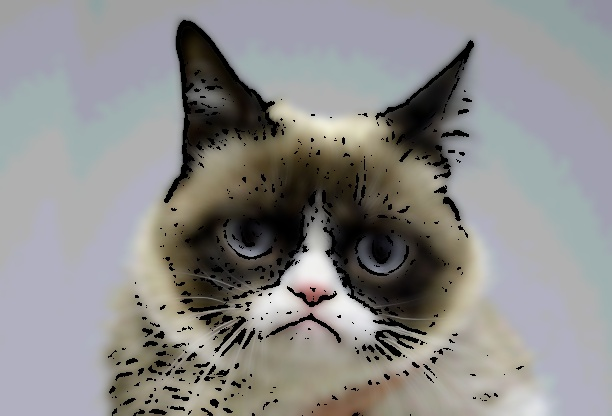
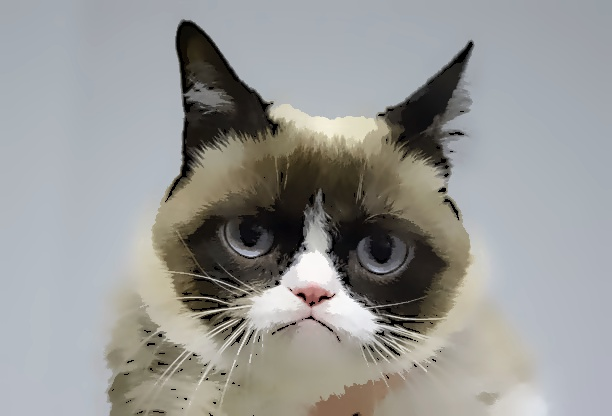
Update README.md

diff --git a/LICENSE.md b/LICENSE.md
@@ -1,0 +1,288 @@
+# European Union Public License v. 1.2
+
+> EUPL © the European Union 2007, 2016
+
+This European Union Public Licence (the ‘EUPL’) applies to the Work (as defined
+below) which is provided under the terms of this Licence. Any use of the Work,
+other than as authorised under this Licence is prohibited (to the extent such
+use is covered by a right of the copyright holder of the Work).
+
+The Work is provided under the terms of this Licence when the Licensor (as
+defined below) has placed the following notice immediately following the
+copyright notice for the Work:
+
+> Licensed under the EUPL
+
+or has expressed by any other means his willingness to license under the EUPL.
+
+## 1. Definitions
+
+In this Licence, the following terms have the following meaning:
+
+- ‘The Licence’: this Licence.
+
+- ‘The Original Work’: the work or software distributed or communicated by the
+  Licensor under this Licence, available as Source Code and also as Executable
+  Code as the case may be.
+
+- ‘Derivative Works’: the works or software that could be created by the
+  Licensee, based upon the Original Work or modifications thereof. This Licence
+  does not define the extent of modification or dependence on the Original Work
+  required in order to classify a work as a Derivative Work; this extent is
+  determined by copyright law applicable in the country mentioned in Article 15.
+
+- ‘The Work’: the Original Work or its Derivative Works.
+
+- ‘The Source Code’: the human-readable form of the Work which is the most
+  convenient for people to study and modify.
+
+- ‘The Executable Code’: any code which has generally been compiled and which is
+  meant to be interpreted by a computer as a program.
+
+- ‘The Licensor’: the natural or legal person that distributes or communicates
+  the Work under the Licence.
+
+- ‘Contributor(s)’: any natural or legal person who modifies the Work under the
+  Licence, or otherwise contributes to the creation of a Derivative Work.
+
+- ‘The Licensee’ or ‘You’: any natural or legal person who makes any usage of
+  the Work under the terms of the Licence.
+
+- ‘Distribution’ or ‘Communication’: any act of selling, giving, lending,
+  renting, distributing, communicating, transmitting, or otherwise making
+  available, online or offline, copies of the Work or providing access to its
+  essential functionalities at the disposal of any other natural or legal
+  person.
+
+## 2. Scope of the rights granted by the Licence
+
+The Licensor hereby grants You a worldwide, royalty-free, non-exclusive,
+sublicensable licence to do the following, for the duration of copyright vested
+in the Original Work:
+
+- use the Work in any circumstance and for all usage,
+- reproduce the Work,
+- modify the Work, and make Derivative Works based upon the Work,
+- communicate to the public, including the right to make available or display
+  the Work or copies thereof to the public and perform publicly, as the case may
+  be, the Work,
+- distribute the Work or copies thereof,
+- lend and rent the Work or copies thereof,
+- sublicense rights in the Work or copies thereof.
+
+Those rights can be exercised on any media, supports and formats, whether now
+known or later invented, as far as the applicable law permits so.
+
+In the countries where moral rights apply, the Licensor waives his right to
+exercise his moral right to the extent allowed by law in order to make effective
+the licence of the economic rights here above listed.
+
+The Licensor grants to the Licensee royalty-free, non-exclusive usage rights to
+any patents held by the Licensor, to the extent necessary to make use of the
+rights granted on the Work under this Licence.
+
+## 3. Communication of the Source Code
+
+The Licensor may provide the Work either in its Source Code form, or as
+Executable Code. If the Work is provided as Executable Code, the Licensor
+provides in addition a machine-readable copy of the Source Code of the Work
+along with each copy of the Work that the Licensor distributes or indicates, in
+a notice following the copyright notice attached to the Work, a repository where
+the Source Code is easily and freely accessible for as long as the Licensor
+continues to distribute or communicate the Work.
+
+## 4. Limitations on copyright
+
+Nothing in this Licence is intended to deprive the Licensee of the benefits from
+any exception or limitation to the exclusive rights of the rights owners in the
+Work, of the exhaustion of those rights or of other applicable limitations
+thereto.
+
+## 5. Obligations of the Licensee
+
+The grant of the rights mentioned above is subject to some restrictions and
+obligations imposed on the Licensee. Those obligations are the following:
+
+**Attribution right:** The Licensee shall keep intact all copyright, patent or
+trademarks notices and all notices that refer to the Licence and to the
+disclaimer of warranties. The Licensee must include a copy of such notices and a
+copy of the Licence with every copy of the Work he/she distributes or
+communicates. The Licensee must cause any Derivative Work to carry prominent
+notices stating that the Work has been modified and the date of modification.
+
+**Copyleft clause:** If the Licensee distributes or communicates copies of the
+Original Works or Derivative Works, this Distribution or Communication will be
+done under the terms of this Licence or of a later version of this Licence
+unless the Original Work is expressly distributed only under this version of the
+Licence — for example by communicating ‘EUPL v. 1.2 only’. The Licensee
+(becoming Licensor) cannot offer or impose any additional terms or conditions on
+the Work or Derivative Work that alter or restrict the terms of the Licence.
+
+**Compatibility clause:** If the Licensee Distributes or Communicates Derivative
+Works or copies thereof based upon both the Work and another work licensed under
+a Compatible Licence, this Distribution or Communication can be done under the
+terms of this Compatible Licence. For the sake of this clause, ‘Compatible
+Licence’ refers to the licences listed in the appendix attached to this Licence.
+Should the Licensee's obligations under the Compatible Licence conflict with
+his/her obligations under this Licence, the obligations of the Compatible
+Licence shall prevail.
+
+**Provision of Source Code:** When distributing or communicating copies of the Work,
+the Licensee will provide a machine-readable copy of the Source Code or indicate
+a repository where this Source will be easily and freely available for as long
+as the Licensee continues to distribute or communicate the Work.
+
+**Legal Protection:** This Licence does not grant permission to use the trade names,
+trademarks, service marks, or names of the Licensor, except as required for
+reasonable and customary use in describing the origin of the Work and
+reproducing the content of the copyright notice.
+
+## 6. Chain of Authorship
+
+The original Licensor warrants that the copyright in the Original Work granted
+hereunder is owned by him/her or licensed to him/her and that he/she has the
+power and authority to grant the Licence.
+
+Each Contributor warrants that the copyright in the modifications he/she brings
+to the Work are owned by him/her or licensed to him/her and that he/she has the
+power and authority to grant the Licence.
+
+Each time You accept the Licence, the original Licensor and subsequent
+Contributors grant You a licence to their contributions to the Work, under the
+terms of this Licence.
+
+## 7. Disclaimer of Warranty
+
+The Work is a work in progress, which is continuously improved by numerous
+Contributors. It is not a finished work and may therefore contain defects or
+‘bugs’ inherent to this type of development.
+
+For the above reason, the Work is provided under the Licence on an ‘as is’ basis
+and without warranties of any kind concerning the Work, including without
+limitation merchantability, fitness for a particular purpose, absence of defects
+or errors, accuracy, non-infringement of intellectual property rights other than
+copyright as stated in Article 6 of this Licence.
+
+This disclaimer of warranty is an essential part of the Licence and a condition
+for the grant of any rights to the Work.
+
+## 8. Disclaimer of Liability
+
+Except in the cases of wilful misconduct or damages directly caused to natural
+persons, the Licensor will in no event be liable for any direct or indirect,
+material or moral, damages of any kind, arising out of the Licence or of the use
+of the Work, including without limitation, damages for loss of goodwill, work
+stoppage, computer failure or malfunction, loss of data or any commercial
+damage, even if the Licensor has been advised of the possibility of such damage.
+However, the Licensor will be liable under statutory product liability laws as
+far such laws apply to the Work.
+
+## 9. Additional agreements
+
+While distributing the Work, You may choose to conclude an additional agreement,
+defining obligations or services consistent with this Licence. However, if
+accepting obligations, You may act only on your own behalf and on your sole
+responsibility, not on behalf of the original Licensor or any other Contributor,
+and only if You agree to indemnify, defend, and hold each Contributor harmless
+for any liability incurred by, or claims asserted against such Contributor by
+the fact You have accepted any warranty or additional liability.
+
+## 10. Acceptance of the Licence
+
+The provisions of this Licence can be accepted by clicking on an icon ‘I agree’
+placed under the bottom of a window displaying the text of this Licence or by
+affirming consent in any other similar way, in accordance with the rules of
+applicable law. Clicking on that icon indicates your clear and irrevocable
+acceptance of this Licence and all of its terms and conditions.
+
+Similarly, you irrevocably accept this Licence and all of its terms and
+conditions by exercising any rights granted to You by Article 2 of this Licence,
+such as the use of the Work, the creation by You of a Derivative Work or the
+Distribution or Communication by You of the Work or copies thereof.
+
+## 11. Information to the public
+
+In case of any Distribution or Communication of the Work by means of electronic
+communication by You (for example, by offering to download the Work from a
+remote location) the distribution channel or media (for example, a website) must
+at least provide to the public the information requested by the applicable law
+regarding the Licensor, the Licence and the way it may be accessible, concluded,
+stored and reproduced by the Licensee.
+
+## 12. Termination of the Licence
+
+The Licence and the rights granted hereunder will terminate automatically upon
+any breach by the Licensee of the terms of the Licence.
+
+Such a termination will not terminate the licences of any person who has
+received the Work from the Licensee under the Licence, provided such persons
+remain in full compliance with the Licence.
+
+## 13. Miscellaneous
+
+Without prejudice of Article 9 above, the Licence represents the complete
+agreement between the Parties as to the Work.
+
+If any provision of the Licence is invalid or unenforceable under applicable
+law, this will not affect the validity or enforceability of the Licence as a
+whole. Such provision will be construed or reformed so as necessary to make it
+valid and enforceable.
+
+The European Commission may publish other linguistic versions or new versions of
+this Licence or updated versions of the Appendix, so far this is required and
+reasonable, without reducing the scope of the rights granted by the Licence. New
+versions of the Licence will be published with a unique version number.
+
+All linguistic versions of this Licence, approved by the European Commission,
+have identical value. Parties can take advantage of the linguistic version of
+their choice.
+
+## 14. Jurisdiction
+
+Without prejudice to specific agreement between parties,
+
+- any litigation resulting from the interpretation of this License, arising
+  between the European Union institutions, bodies, offices or agencies, as a
+  Licensor, and any Licensee, will be subject to the jurisdiction of the Court
+  of Justice of the European Union, as laid down in article 272 of the Treaty on
+  the Functioning of the European Union,
+
+- any litigation arising between other parties and resulting from the
+  interpretation of this License, will be subject to the exclusive jurisdiction
+  of the competent court where the Licensor resides or conducts its primary
+  business.
+
+## 15. Applicable Law
+
+Without prejudice to specific agreement between parties,
+
+- this Licence shall be governed by the law of the European Union Member State
+  where the Licensor has his seat, resides or has his registered office,
+
+- this licence shall be governed by Belgian law if the Licensor has no seat,
+  residence or registered office inside a European Union Member State.
+
+## Appendix
+
+‘Compatible Licences’ according to Article 5 EUPL are:
+
+- GNU General Public License (GPL) v. 2, v. 3
+- GNU Affero General Public License (AGPL) v. 3
+- Open Software License (OSL) v. 2.1, v. 3.0
+- Eclipse Public License (EPL) v. 1.0
+- CeCILL v. 2.0, v. 2.1
+- Mozilla Public Licence (MPL) v. 2
+- GNU Lesser General Public Licence (LGPL) v. 2.1, v. 3
+- Creative Commons Attribution-ShareAlike v. 3.0 Unported (CC BY-SA 3.0) for
+  works other than software
+- European Union Public Licence (EUPL) v. 1.1, v. 1.2
+- Québec Free and Open-Source Licence — Reciprocity (LiLiQ-R) or Strong
+  Reciprocity (LiLiQ-R+).
+
+The European Commission may update this Appendix to later versions of the above
+licences without producing a new version of the EUPL, as long as they provide
+the rights granted in Article 2 of this Licence and protect the covered Source
+Code from exclusive appropriation.
+
+All other changes or additions to this Appendix require the production of a new
+EUPL version.

diff --git a/README.md b/README.md
@@ -1,8 +1,21 @@
-# Faux cartoon styling with OpenCV
+# Faux cartoon effect with OpenCV
 
-Meh. 🤷
+Common tutorials around the web suggest that cartoon filters can be easily done by using median filtering,
+adaptive thresholding and edge detection. While this works, it achieves sub-par results almost certainly.
+
+This approach replaces [median blurring](https://docs.opencv.org/3.4/d4/d86/group__imgproc__filter.html#ga564869aa33e58769b4469101aac458f9)
+with [anisotropic diffusion](https://docs.opencv.org/3.4/df/d2d/group__ximgproc.html#gaffedd976e0a8efb5938107acab185ec2),
+and uses [pyramid mean shift filtering](https://docs.opencv.org/3.4/d4/d86/group__imgproc__filter.html#ga9fabdce9543bd602445f5db3827e4cc0)
+for color reduction to achieve a more comic-like effect.
+
+<div align="center" style="text-align: center">
+    <img src="cartoonify.jpg" alt="Cartoonified Grumpy Cat" />
+</div>
+
+This, of course, also only works with proper tuning of the parameters.
+
+Here's the input image and the produced result for comparison.
 
 | Input               | Output                  |
 |---------------------|-------------------------|
 | ![](grumpy-cat.jpg) | ![](cartoonified.jpg)   |
-| ![](grumpy-cat.jpg) | ![](cartoonified-2.jpg) |
